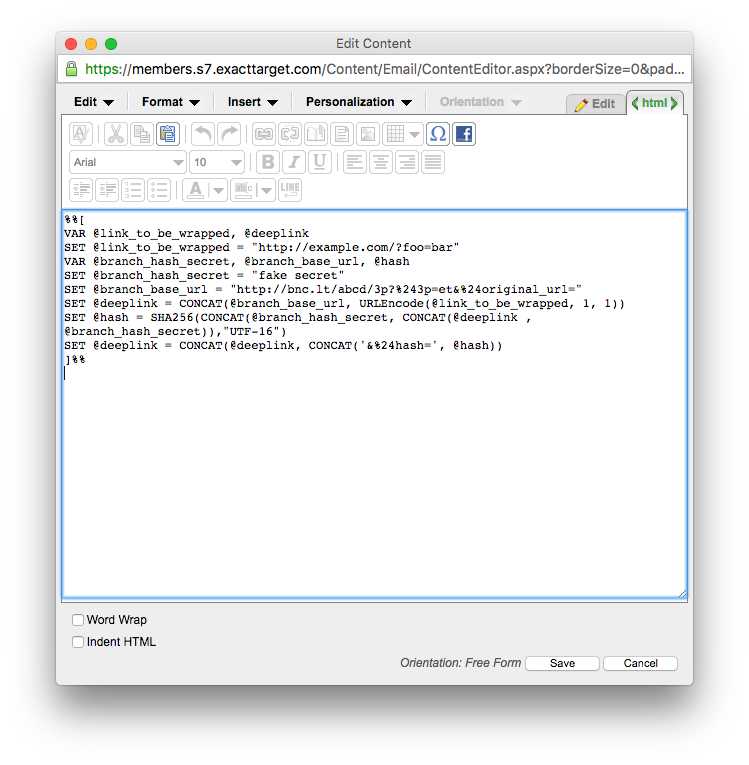
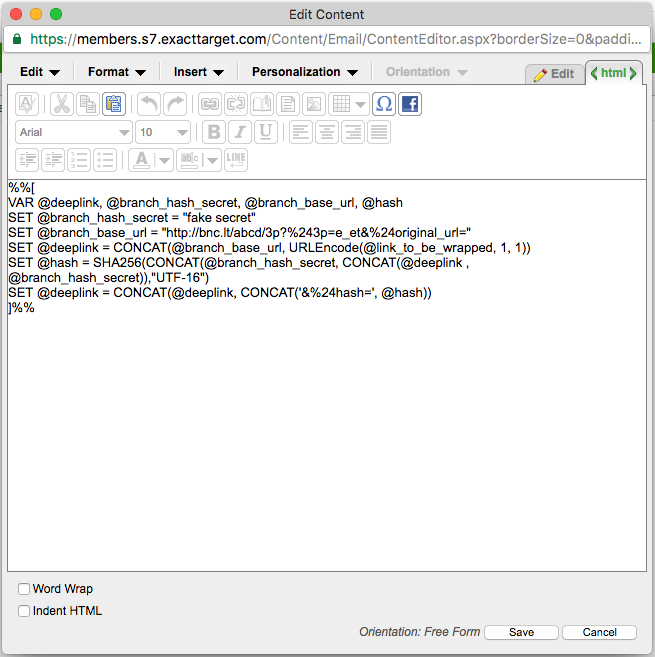
little mini fixes

Changed region(s): [[0.0, 0.0, 1.0, 1.0]]

diff --git a/pages/premium-solutions/index.md b/pages/premium-solutions/index.md
@@ -27,7 +27,7 @@ Use **[Journeys Web to App](/features/journeys)** to convert mobile web visitors
 
 <h3 style="margin-top:0;">Deep Linked Emails <img class="premium-label" src="/img/premium_label.png" /></h3>
 
-Offer a better user experience by using our Email Service Provider integrations to send emails with Branch links inside. We work with **[Responsys](/third-party-integrations/responsys)**, **[Sailthru](/third-party-integrations/sailthru)**, and **[SendGrid](/third-party-integrations/sendgrid)**, with more on the way!
+Offer a better user experience by using our Email Service Provider integrations to send emails with Branch links inside. We work with **[ExactTarget](/third-party-integrations/exacttarget) **[Responsys](/third-party-integrations/responsys)**, **[Sailthru](/third-party-integrations/sailthru)**, and **[SendGrid](/third-party-integrations/sendgrid)**, with more on the way!
 
 {% endprotip %}
 {% protip %}

diff --git a/pages/third-party-integrations/remote-deep-links.md b/pages/third-party-integrations/remote-deep-links.md
@@ -36,7 +36,7 @@ To create a Remote Deep Link, you’ll need the following:
 
 Let's start with some example information. 
 
-* Base domain: `https://bnc.lt/27mg/3p?%243p=ex&%24original_url=`
+* Base domain: `https://bnc.lt/27mg/3p?%243p=e_ex&%24original_url=`
 * Secret key: `HoRywe971pl569DMpU1RzbRTap4ewnbNeqEcisz4FjQ=`
 * Web URL: `https://www.example.com/product/summer_shoes/`
 * Deep link parameters: `sku=123456` and `color=blue`
